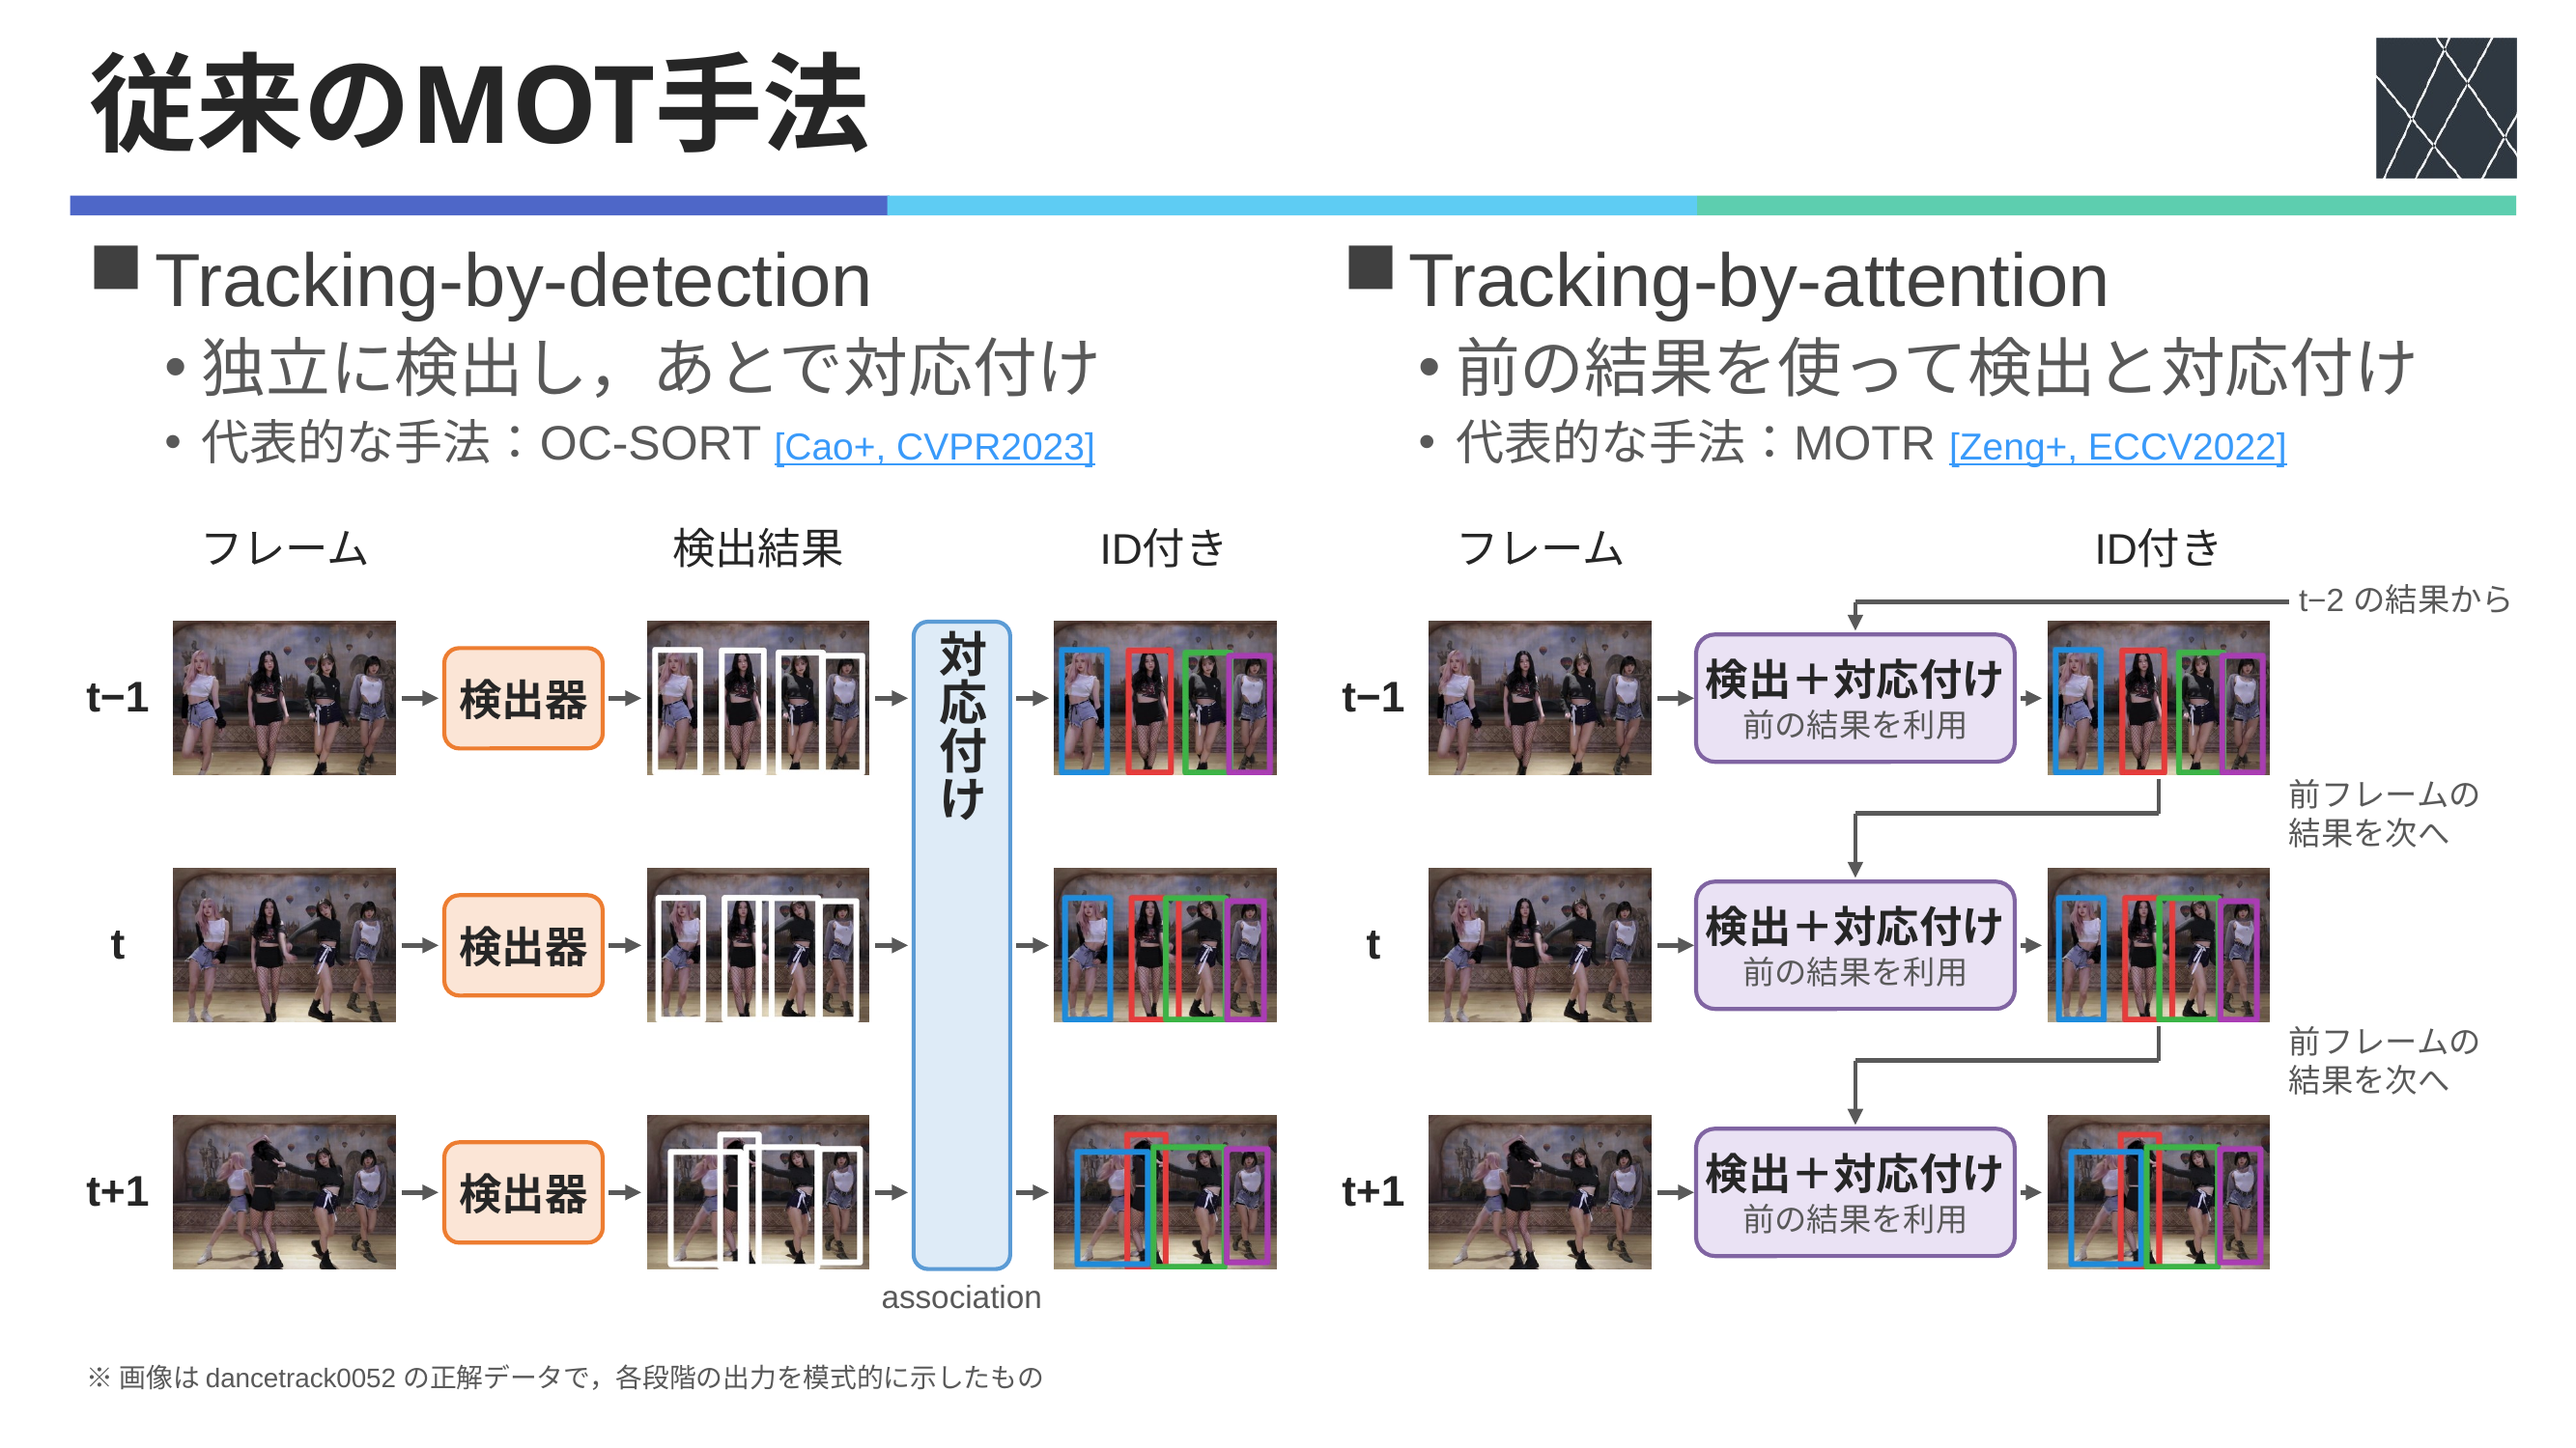
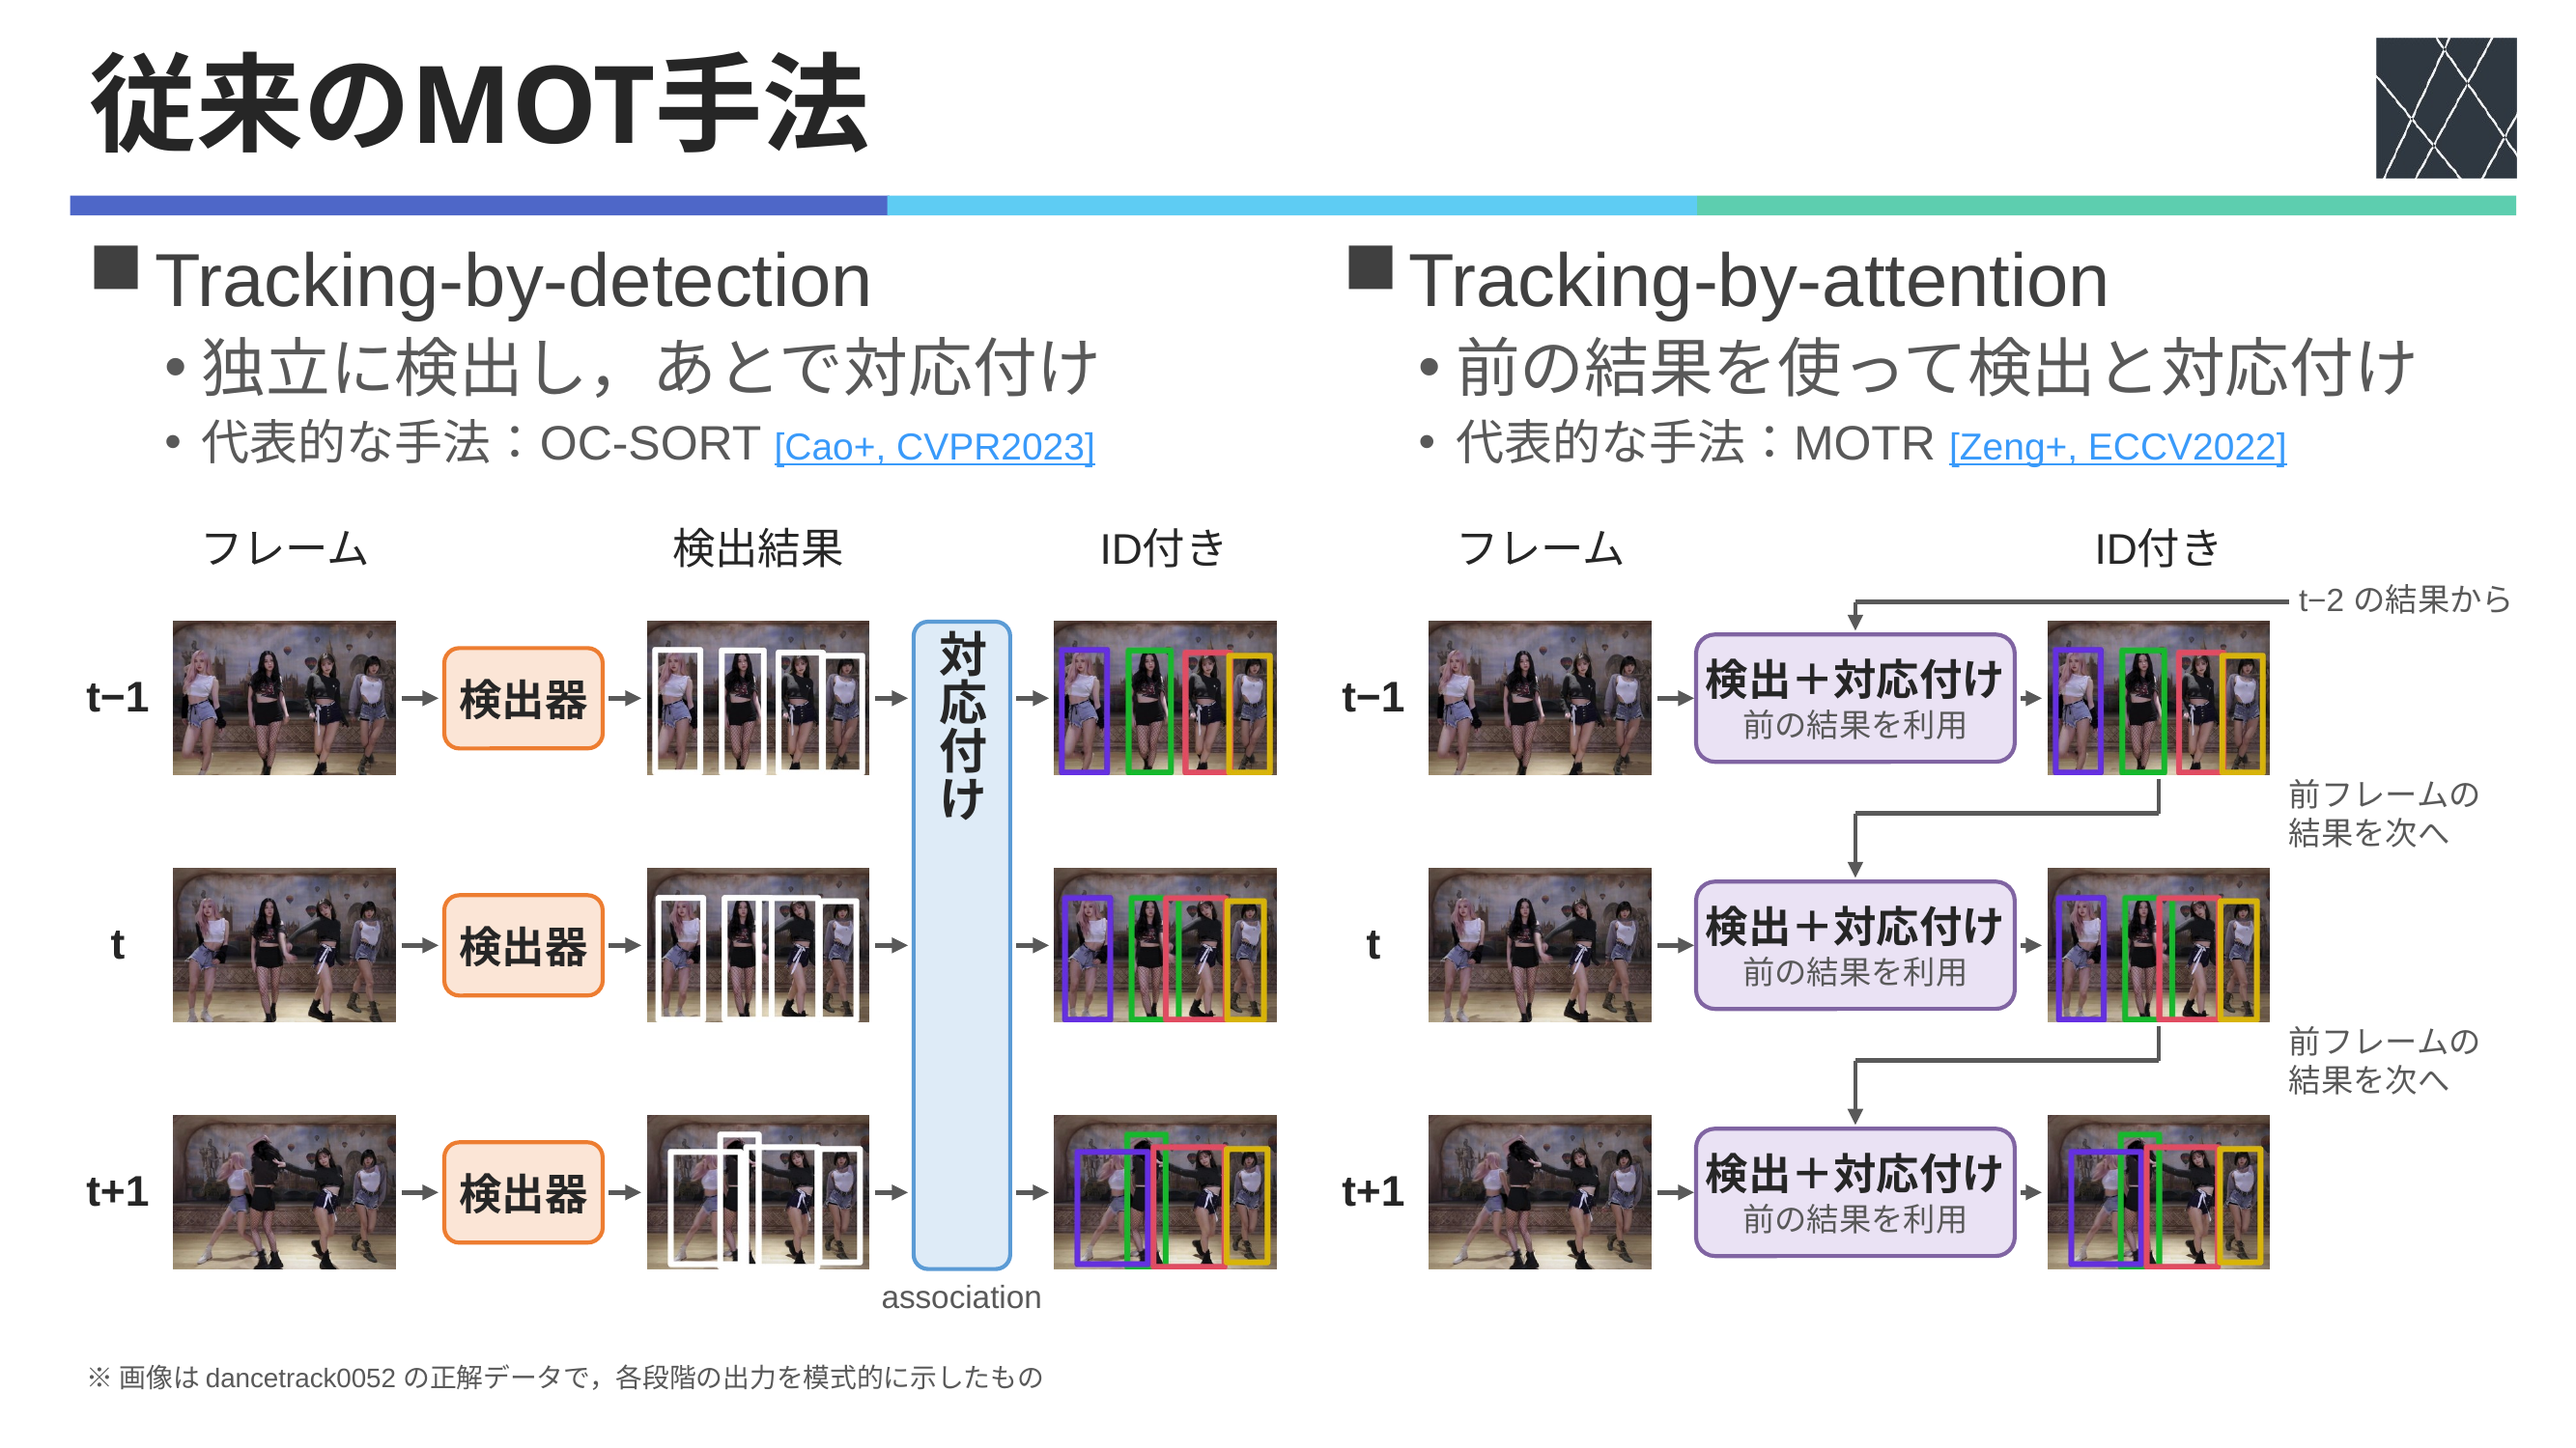
資料: 導入図と動画の人物ID・配色を統一

diff --git a/.research/lab/projects/sam2-mamba-motion-tracking/materials/figures/2026-10-17-dancetrack0052-unified-colors/make_unified_colors.py b/.research/lab/projects/sam2-mamba-motion-tracking/materials/figures/2026-10-17-dancetrack0052-unified-colors/make_unified_colors.py
@@ -1,0 +1,84 @@
+#!/usr/bin/env python3
+"""Re-render the dancetrack0052 figures of slides 2 and 3 with the ID colors of the later figures.
+
+The SAMURAI / proposed-method figures (../2026-10-15-samurai-per-id/masks_all.png) color the four
+people, left to right in frame 1, purple (ID 1), green (ID 2), red (ID 3), yellow (ID 4).
+The older figures used red / blue / green / purple keyed by the raw GT ID, so the leftmost person was
+"ID 2" in blue. Here the raw GT IDs are mapped to the later figures' IDs and colors:
+
+    raw GT 1 (leftmost) -> ID 1 purple, raw 0 -> ID 2 green, raw 2 -> ID 3 red, raw 3 -> ID 4 yellow
+
+Outputs (this folder):
+  2026-10-17-dancetrack0052-whole-gt.mp4 (+poster)   slide 2 upper video (GT boxes with ID labels)
+  2026-10-17-dancetrack0052-whole-mask.mp4 (+poster) slide 2 lower video (SAM2 pseudo masks, no labels)
+  2026-10-17-trk_{0,1,2}.png                          slide 3 "ID付き" thumbnails (frames 7 / 15 / 23)
+
+Run with the SAM2 repo venv (the mask video needs SAM2 and a GPU, about 8 min on an RTX A4000):
+  .venv-sam2/bin/python make_unified_colors.py [gt] [mask] [trk]
+"""
+
+import shutil
+import sys
+from pathlib import Path
+
+import cv2
+
+HERE = Path(__file__).resolve().parent
+FIG = HERE.parent
+COLORS = {1: (225, 48, 101), 0: (44, 184, 22), 2: (99, 76, 226), 3: (8, 179, 216)}  # BGR, raw GT ID -> later figures' color
+LABEL = {1: 1, 0: 2, 2: 3, 3: 4}  # raw GT ID -> displayed ID
+
+
+def gt_video():
+    sys.path.insert(0, str(FIG / "2026-10-13-dancetrack0052-mot-example"))
+    import make_videos as mv
+
+    def draw(img, rows):
+        font = cv2.FONT_HERSHEY_SIMPLEX
+        for tid, x, y, w, h in rows:
+            c = COLORS[tid]
+            p1, p2 = (round(x), round(y)), (round(x + w), round(y + h))
+            cv2.rectangle(img, p1, p2, c, 7, cv2.LINE_AA)
+            label = f"ID {LABEL[tid]}"
+            (tw, th), base = cv2.getTextSize(label, font, 1.6, 4)
+            top = max(0, p1[1])
+            cv2.rectangle(img, (p1[0], top), (p1[0] + tw + 16, top + th + base + 14), c, -1)
+            cv2.putText(img, label, (p1[0] + 8, top + th + 7), font, 1.6, (255, 255, 255), 4, cv2.LINE_AA)
+
+    mv.draw, mv.OUT_DIR = draw, HERE
+    mv.render("whole-gt", 1, 1203, (0, 0, 1920, 1080), (1280, 720), True)
+    for suffix in (".mp4", "-poster.jpg"):
+        (HERE / f"2026-10-13-dancetrack0052-whole-gt{suffix}").rename(HERE / f"2026-10-17-dancetrack0052-whole-gt{suffix}")
+
+
+def mask_video():
+    sys.path.insert(0, str(FIG / "2026-10-14-dancetrack0052-mask-example"))
+    import make_mask_video as mm
+    mm.COLORS, mm.OUT_DIR = COLORS, HERE
+    sys.argv = [sys.argv[0]]
+    mm.main()
+    for suffix in (".mp4", "-poster.jpg"):
+        (HERE / f"2026-10-14-dancetrack0052-whole-mask{suffix}").rename(HERE / f"2026-10-17-dancetrack0052-whole-mask{suffix}")
+
+
+def trk_thumbnails():
+    sys.path.insert(0, str(FIG / "2026-10-15-mot-paradigm-timeline"))
+    import make_thumbnails as mt
+    tmp = HERE / "_tmp_timeline"
+    tmp.mkdir(exist_ok=True)
+    mt.COLORS, mt.OUT = COLORS, tmp
+    sys.argv = [sys.argv[0], "1", "7", "15", "23"]
+    mt.main()
+    for k in range(3):
+        (tmp / f"trk_{k}.png").rename(HERE / f"2026-10-17-trk_{k}.png")
+    shutil.rmtree(tmp)
+
+
+if __name__ == "__main__":
+    wanted = set(sys.argv[1:]) or {"gt", "mask", "trk"}
+    if "trk" in wanted:
+        trk_thumbnails()
+    if "gt" in wanted:
+        gt_video()
+    if "mask" in wanted:
+        mask_video()

diff --git a/.research/lab/projects/sam2-mamba-motion-tracking/materials/figures/2026-10-17-dancetrack0052-unified-colors/manifest.md b/.research/lab/projects/sam2-mamba-motion-tracking/materials/figures/2026-10-17-dancetrack0052-unified-colors/manifest.md
@@ -1,0 +1,21 @@
+# dancetrack0052 の図の色をそろえた版（2・3枚目, 2026-10-17）
+
+4枚目以降の図（[SAMURAI・提案手法の構成図](../2026-10-15-samurai-per-id/manifest.md)の `masks_all.png`）では、frame 1 の左から順に4人を **紫（ID 1）・緑（ID 2）・赤（ID 3）・黄（ID 4）** で塗っている。2枚目の動画と3枚目の図は、元のGTのID順に赤・青・緑・紫で、左端の人が「ID 2」になっていた。そこで、同じ人に同じ色・同じ番号が付くように作り直した。
+
+| 元のGTのID | 位置（frame 1） | 表示のID | 色（BGR） |
+|---:|---|---|---|
+| 1 | 左端 | ID 1 | 紫 (225, 48, 101) |
+| 0 | 左から2人目 | ID 2 | 緑 (44, 184, 22) |
+| 2 | 左から3人目 | ID 3 | 赤 (99, 76, 226) |
+| 3 | 右端 | ID 4 | 黄 (8, 179, 216) |
+
+色は `masks_all.png` の枠線から取った。
+
+| ファイル | 中身 | 元の素材 |
+|---|---|---|
+| `2026-10-17-dancetrack0052-whole-gt.mp4`（+poster） | 2枚目上段。GTの枠とID、全1203フレーム、1280×720、20fps | [2026-10-13 の whole-gt](../2026-10-13-dancetrack0052-mot-example/manifest.md) |
+| `2026-10-17-dancetrack0052-whole-mask.mp4`（+poster） | 2枚目下段。GT bboxからSAM2で作った擬似マスク（IDラベルなし）、全1203フレーム、20fps | [2026-10-14 のマスク動画](../2026-10-14-dancetrack0052-mask-example/manifest.md) |
+| `2026-10-17-trk_{0,1,2}.png` | 3枚目の「ID付き」（frame 7 / 15 / 23）。IDの番号なし、太い枠 | [2026-10-15 の trk_k.png](../2026-10-15-mot-paradigm-timeline/manifest.md) |
+
+- `make_unified_colors.py` が元の3つのスクリプトの色だけを差し替えて呼ぶ。描き方・切り出し・マスクの作り方は元と同じ。SAM2 repo の `.venv-sam2` で実行する（マスク動画はGPUで約8分）。
+- マスクは元と同じくSAM2の擬似マスクで、GTではない。

diff --git a/.research/lab/projects/sam2-mamba-motion-tracking/materials/2026-10-14-midterm-slide-revision-plan.md b/.research/lab/projects/sam2-mamba-motion-tracking/materials/2026-10-14-midterm-slide-revision-plan.md
@@ -65,3 +65,4 @@ tags: [presentation, midterm, revision]
 | F4 | 提案手法1の課題点 | 今の概要図ではなく、モデル図（提案手法1の図）をそのまま使った説明にする | 2026-10-16 作成（8枚目の図をそのまま使い、手前の ID 1 のマスクを取り違えの模式図にして ①② の印を付けた） |
 
 - 2026-10-17: 定性評価（#10）の②④を選び直し、15枚目の直後に2枚追加した。16枚目「定性的評価：全手法でうまくいかない例」（dancetrack0026 全302フレーム）、17枚目「定性的評価：提案手法だけうまくいかない例」（dancetrack0079 GT 8、frame 812–891、切り出し）。どちらもGT / SAM2 / SAMURAI / Oursの2×2で、10fps（半分の速さ）。スライドを開くと4本が同時に再生され、ループ・ミュートする。素材は[2回目の定性動画](../experiments/figures/2026-10-17-qualitative-patterns-v2/manifest.md)。15枚目（4パターン）はまだそのまま。
+- 2026-10-17: 2枚目の動画（bbox・マスク）と3枚目の「ID付き」の画像を、4枚目以降の図と同じ配色（左から紫ID 1・緑ID 2・赤ID 3・黄ID 4）の版に差し替えた。位置・大きさ・再生設定は変えていない。素材は[色をそろえた版](figures/2026-10-17-dancetrack0052-unified-colors/manifest.md)。

diff --git a/.research/lab/projects/sam2-mamba-motion-tracking/materials/figures/2026-10-13-midterm-diagrams/manifest.md b/.research/lab/projects/sam2-mamba-motion-tracking/materials/figures/2026-10-13-midterm-diagrams/manifest.md
@@ -15,6 +15,7 @@
 | 6 | 末尾（非表示） | （旧）bbox系とマスク系がSAM2MOTで合流する流れ図 |
 
 - 本体で図を直したら、この抜き出し版も作り直す。
+- 2026-10-17: 1枚目（TBD / TBA）の「ID付き」の画像3枚を、4枚目以降の図と同じ配色（左から紫・緑・赤・黄）の版に差し替えた（[色をそろえた版](../2026-10-17-dancetrack0052-unified-colors/manifest.md)）。PNGも書き出し直した。
 - pptxは `.gitignore` の対象なので、このファイルはGitに入らない。
 
 ## 画像での確認（png/）
